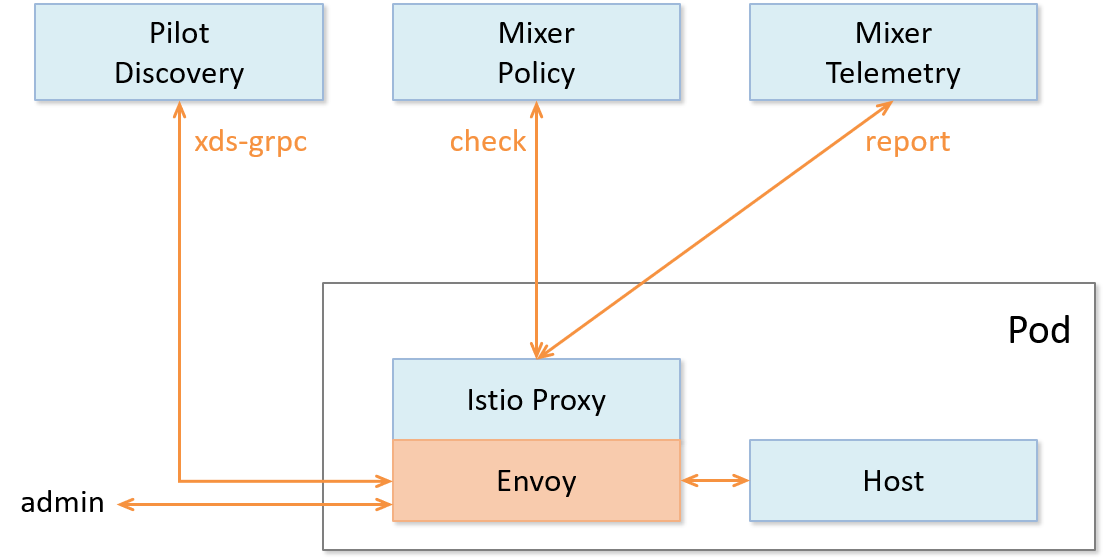
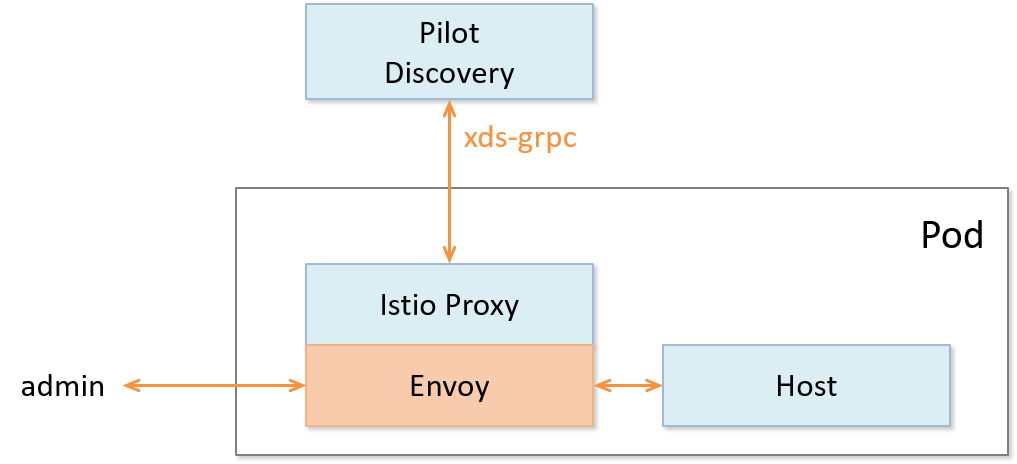
add: concepts/data-plane.md

Changed region(s): [[0.0, 0.0, 1.0, 0.9957], [0.6706, 0.0, 0.9449, 0.3017], [0.7011, 0.3017, 0.7316, 0.3319]]

diff --git a/concepts/data-plane.md b/concepts/data-plane.md
@@ -1,31 +1,32 @@
 ---
 authors: ["Liu-HongYe"]
-reviewers: [""]
+reviewers: ["malphi","rootsongjc"]
 ---
 
 # 数据平面介绍
 
-数据平面（data plane）是最先出现在分层网络中网络层的概念，网络层一般被分为控制平面（control plane）与数据平面。控制平面主要为数据包的快速转发准备必要信息，如：路由协议，设备管理，命令行，ARP，IGMP 等；而数据平面则主要负责高速地处理和转发数据包，通常是影响整个系统性能的关键因素，因为所有由网络处理器处理的数据包都必须经过这里。这样划分的目的是把不同类型的工作分离开，避免不同类型的处理相互干扰。数据平面的转发工作无疑是网络层的重要工作，需要最高的优先级；而控制平面的路由协议等不需要在段时间内处理大量的包，可以将其放到次一级的优先级中。数据平面可以专注使用定制序列化等各种技术来提高传输速率，而控制平面则可以借助于通用库来达到更好的控制与保护效果。
+数据平面（data plane）是最先出现在分层网络中的概念，网络层一般被分为控制平面（control plane）与数据平面。控制平面主要为数据包的快速转发准备必要信息，如：路由协议，设备管理，命令行，ARP，IGMP 等；而数据平面则主要负责高速地处理和转发数据包，因为所有由网络处理器处理的数据包都必须经过这里，所以是影响整个系统性能的关键因素。这样划分的目的是把不同类型的工作分离开，避免不同类型的处理相互干扰。数据平面的转发工作无疑是网络层的重要工作，需要最高的优先级；而控制平面的路由协议等不需要在段时间内处理大量的包，可以将其放到次一级的优先级中。数据平面可以专注使用定制序列化等各种技术来提高传输速率，而控制平面则可以借助于通用库来达到更好的控制与保护效果。
 
-服务网格（Service Mesh）是一个用于处理服务间通信的基础设施层，它负责为构建复杂的云原生应用传递可靠的网络请求。在实践中，服务网格通常实现为一组和应用程序部署在一起的轻量级的网络代理，但对应用程序来说是透明的。这看起来和分层网络中的网络层极为相似，因此作为 Service Mesh 的典型实现，Istio 采用同样的设计，如下图，将系统分为数据平面与控制平面。类似的，数据平面由通信代理组件（Envoy/Linkerd等）和组件之间的网络通信组成；控制平面负责对通信代理组件进行管理和配置。本节主要针对数据平面进行讲解。
+服务网格（Service Mesh）是一个用于处理服务间通信的基础设施层，它负责为构建复杂的云原生应用传递可靠的网络请求。在实践中，服务网格通常实现为一组和应用程序部署在一起的轻量级的网络代理，但对应用程序来说是透明的。这看起来和分层网络中的网络层极为相似，因此作为 Service Mesh 的典型实现，Istio 采用同样的设计，如下图，将系统分为数据平面与控制平面。类似的，数据平面由通信代理组件（Envoy/Linkerd等）和组件之间的网络通信组成；控制平面负责对通信代理组件进行管理和配置。
   
 ![Service Mesh 分层架构](../images/concepts-data-plane-overview.png)
  
-Istio 数据平面核心是以边车（sidecar）模式运行的智能代理。如下图所示，这些代理可以调节和控制微服务之间所有的网络通信，每个服务 Pod 启动时会伴随启动 Istio-init 和 proxy 容器。其中 Istio-init 容器主要功能是初始化 Pod 网络和对 Pod 设置 Iptable 规则，设置完成后自动结束。Proxy 容器会启动两个服务：Pilot-agent 以及网络代理组件。Pilot-agent 的作用是同步管理数据，启动并管理网络代理服务进程，上报遥测数据；网络代理组件则根据管理策略完成流量管控、生成遥测数据。数据平面真正触及到对网络数据包的相关操作，是上层控制平面策略的具体执行者。
+Istio 数据平面核心是以边车（sidecar）模式运行的智能代理。边车模式将数据平面核心组件部署到单独的流程或容器中，以提供隔离和封装。边车应用与父应用程序共享相同的生命周期，与父应用程序一起创建和退出。边车应用附加到父应用程序，并为应用程序提供额外的特性支持，边车模式详细介绍请参照背书[边车模式](sidecar.md)中的相关内容。
+如下图所示，数据平面的边车代理可以调节和控制微服务之间所有的网络通信，每个服务 Pod 启动时会伴随启动 istio-init 和 proxy 容器。其中 istio-init 容器主要功能是初始化 Pod 网络和对 Pod 设置 iptable 规则，设置完成后自动结束。Proxy 容器会启动两个服务：istio-agent 以及网络代理组件。istio-agent 的作用是同步管理数据，启动并管理网络代理服务进程，上报遥测数据；网络代理组件则根据管理策略完成流量管控、生成遥测数据。数据平面真正触及到对网络数据包的相关操作，是上层控制平面策略的具体执行者。
 
-![Data Plane架构图](../images/concepts-data-plane-arch.png)
+![Data Plane 架构图](../images/concepts-data-plane-arch.png)
   
 在 Istio 中，数据平面主要负责执行如下任务：
 - 服务发现：探测所有可用的上游或后端服务实例
 - 健康检测：探测上游或后端服务实例是否健康，是否准备好接收网络流量
 - 流量路由：将网络请求路由到正确的上游或后端服务
 - 负载均衡：在对上游或后端服务进行请求时，选择合适的服务实例接收请求，同时负责处理超时、断路、重试等情况
-- 身份验证和授权：对网络请求进行身份验证、权限验证，以决定是否响应以及如何响应，使用 mTLS 或其他机制对链路进行加密等
+- 身份验证和授权：在 istio-agent 与 istiod 配合下，对网络请求进行身份验证、权限验证，以决定是否响应以及如何响应，使用 mTLS 或其他机制对链路进行加密等
 - 链路追踪：对于每个请求，生成详细的统计信息、日志记录和分布式追踪数据，以便操作人员能够理解调用路径并在出现问题时进行调试
 
-简单来说，数据平面就是负责有条件地转换、转发以及观察进出服务实例的每个网络包。
+简单来说，数据平面的工作就是负责有条件地转换、转发以及观察进出服务实例的每个网络包。
   
 现在常见的数据平面实现有：
 - Envoy：Istio 默认使用的数据平面实现方案，使用C++开发，性能较高。
-- Mosn：阿里巴巴公司开源，设计类似 Envoy，使用 Go 语言开发，优化过多协议支持。
-- Nginx：老牌的反向代理服务，较为成熟，可以采用 sidecar 的方式部署，作为 Istio 的数据平面实现方式。
+- MOSN：阿里巴巴公司开源，设计类似 Envoy，使用 Go 语言开发，优化过多协议支持。
+- Linkerd：一个提供弹性云端原生应用服务网格的开源项目，也是面向微服务的开源 RPC 代理，使用 Scala 开发。它的核心是一个透明代理。因此也可作为典型的数据平面的实现。
